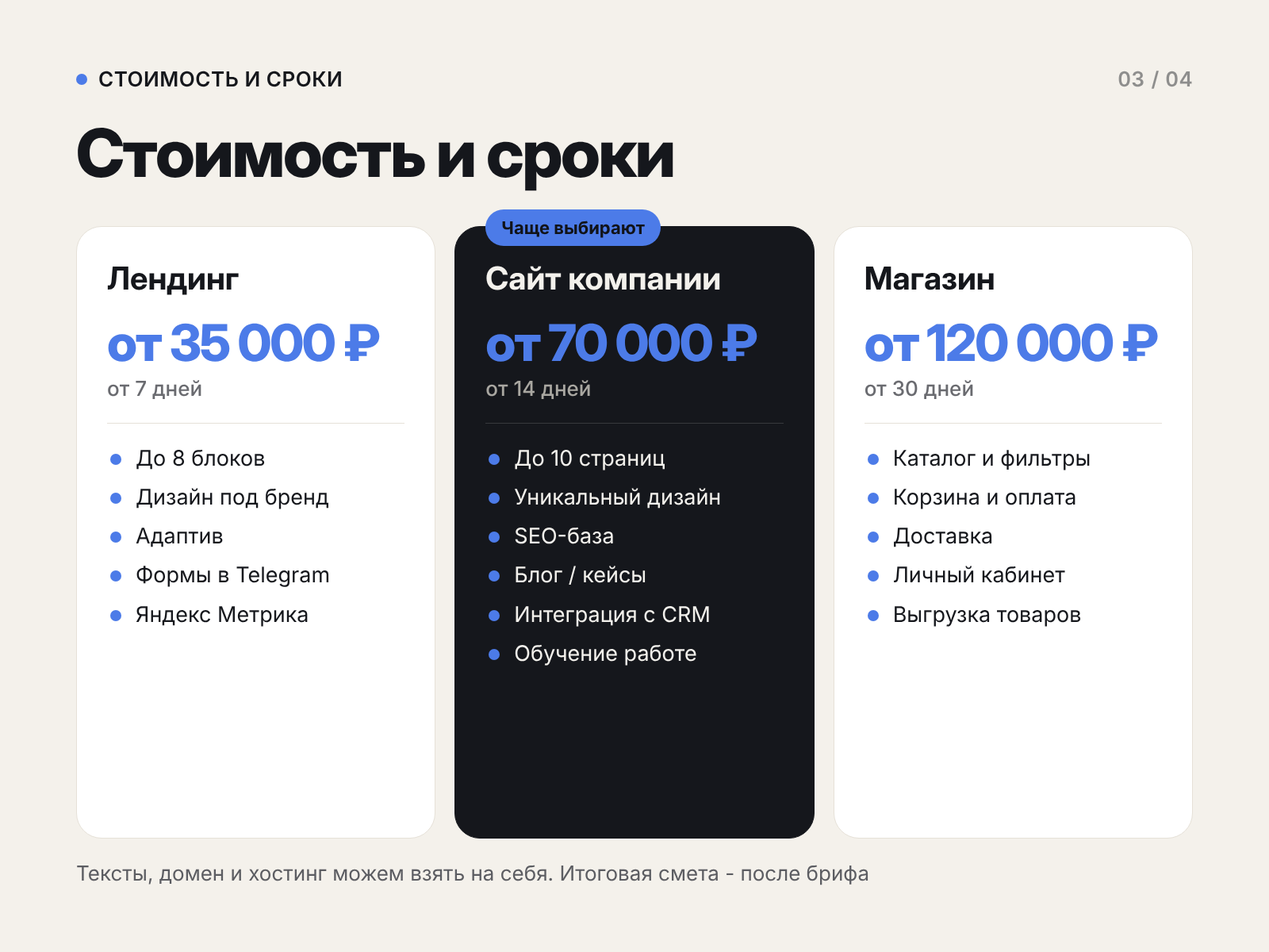
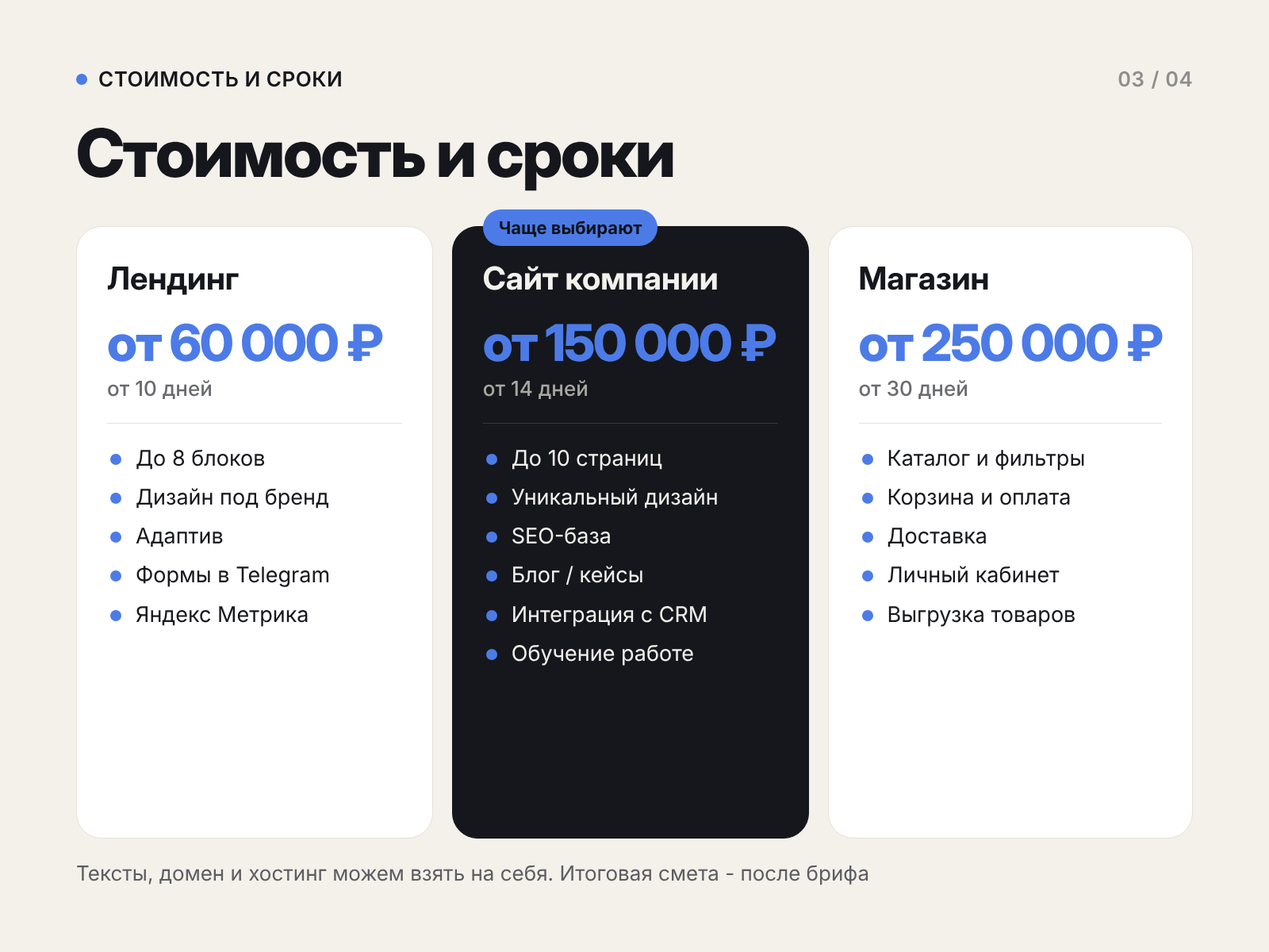
Avito ads: Moscow/SPb market prices, fix cover headline line break
Claude-Session: https://claude.ai/code/session_014B2X5Ksf3MbGYuZYbzjrCy

diff --git a/avito/src/html/03-ai-03.html b/avito/src/html/03-ai-03.html
@@ -91,6 +91,6 @@ h2 { position: relative; margin-top: 34px; font-size: 84px; font-weight: 800; le
 <div class="slide light" style="--a:#8A6BF0">
   <div class="top"><span class="kicker"><i></i>Пакеты внедрения</span><span class="pg">03 / 04</span></div>
 <h2>Пакеты внедрения</h2>
-  <div class="pkgs"><div class="pkg"><h3>Консультант</h3><div class="price">от 40 000 ₽</div><div class="term">от 5 дней</div><ul><li>1 канал</li><li>База знаний до 50 вопросов</li><li>Сбор контактов</li><li>Уведомления в Telegram</li><li>Месяц поддержки</li></ul></div><div class="pkg hl"><span class="badge">Чаще выбирают</span><h3>Менеджер</h3><div class="price">от 80 000 ₽</div><div class="term">от 10 дней</div><ul><li>До 3 каналов</li><li>Квалификация заявок</li><li>Запись в календарь</li><li>Интеграция с CRM</li><li>Передача оператору</li><li>2 месяца поддержки</li></ul></div><div class="pkg"><h3>Под задачу</h3><div class="price">от 150 000 ₽</div><div class="term">по ТЗ</div><ul><li>Сложные сценарии</li><li>Работа с документами</li><li>Внутренние ассистенты</li><li>Интеграции по API</li><li>Индивидуальный SLA</li></ul></div></div>
-  <p class="note">Оплата <span class="nw">AI-сервиса</span> по факту использования - обычно от 1 500 ₽/мес. Посчитаем заранее</p>
+  <div class="pkgs"><div class="pkg"><h3>Консультант</h3><div class="price">от 80 000 ₽</div><div class="term">от 10 дней</div><ul><li>1 канал</li><li>База знаний до 50 вопросов</li><li>Сбор контактов</li><li>Уведомления в Telegram</li><li>Месяц поддержки</li></ul></div><div class="pkg hl"><span class="badge">Чаще выбирают</span><h3>Менеджер</h3><div class="price">от 180 000 ₽</div><div class="term">от 3 недель</div><ul><li>До 3 каналов</li><li>Квалификация заявок</li><li>Запись в календарь</li><li>Интеграция с CRM</li><li>Передача оператору</li><li>2 месяца поддержки</li></ul></div><div class="pkg"><h3>Под задачу</h3><div class="price">от 350 000 ₽</div><div class="term">по ТЗ</div><ul><li>Сложные сценарии</li><li>Работа с документами</li><li>Внутренние ассистенты</li><li>Интеграции по API</li><li>Индивидуальный SLA</li></ul></div></div>
+  <p class="note">Оплата <span class="nw">AI-сервиса</span> по факту использования - обычно 5 <span class="nw">000-20</span> 000 ₽/мес. Посчитаем заранее</p>
 </div></body></html>

diff --git a/avito/src/html/01-smm-03.html b/avito/src/html/01-smm-03.html
@@ -91,6 +91,6 @@ h2 { position: relative; margin-top: 34px; font-size: 84px; font-weight: 800; le
 <div class="slide light" style="--a:#E07A4F">
   <div class="top"><span class="kicker"><i></i>Тарифы</span><span class="pg">03 / 04</span></div>
 <h2>Тарифы</h2>
-  <div class="pkgs"><div class="pkg"><h3>Старт</h3><div class="price">от 25 000 ₽</div><div class="term">в месяц</div><ul><li>1 площадка</li><li>12 публикаций</li><li>Оформление сообщества</li><li><span class="nw">Контент-план</span></li><li>Отчёт раз в месяц</li></ul></div><div class="pkg hl"><span class="badge">Чаще выбирают</span><h3>Рост</h3><div class="price">от 45 000 ₽</div><div class="term">в месяц</div><ul><li>2 площадки</li><li>20 публикаций + истории</li><li>4 клипа</li><li>Таргет VK Рекламы</li><li>Модерация</li><li>Отчёт раз в 2 недели</li></ul></div><div class="pkg"><h3>Максимум</h3><div class="price">от 75 000 ₽</div><div class="term">в месяц</div><ul><li>До 3 площадок</li><li>30 публикаций + клипы</li><li>Таргет + посевы</li><li>Модерация ежедневно</li><li>Еженедельные созвоны</li></ul></div></div>
+  <div class="pkgs"><div class="pkg"><h3>Старт</h3><div class="price">от 40 000 ₽</div><div class="term">в месяц</div><ul><li>1 площадка</li><li>12 публикаций</li><li>Оформление сообщества</li><li><span class="nw">Контент-план</span></li><li>Отчёт раз в месяц</li></ul></div><div class="pkg hl"><span class="badge">Чаще выбирают</span><h3>Рост</h3><div class="price">от 70 000 ₽</div><div class="term">в месяц</div><ul><li>2 площадки</li><li>20 публикаций + истории</li><li>4 клипа</li><li>Таргет VK Рекламы</li><li>Модерация</li><li>Отчёт раз в 2 недели</li></ul></div><div class="pkg"><h3>Максимум</h3><div class="price">от 120 000 ₽</div><div class="term">в месяц</div><ul><li>До 3 площадок</li><li>30 публикаций + клипы</li><li>Таргет + посевы</li><li>Модерация ежедневно</li><li>Еженедельные созвоны</li></ul></div></div>
   <p class="note">Рекламный бюджет оплачивается отдельно. Точная цена - после бесплатного аудита</p>
 </div></body></html>

diff --git a/avito/src/html/02-web-03.html b/avito/src/html/02-web-03.html
@@ -91,6 +91,6 @@ h2 { position: relative; margin-top: 34px; font-size: 84px; font-weight: 800; le
 <div class="slide light" style="--a:#4C7BE8">
   <div class="top"><span class="kicker"><i></i>Стоимость и сроки</span><span class="pg">03 / 04</span></div>
 <h2>Стоимость и сроки</h2>
-  <div class="pkgs"><div class="pkg"><h3>Лендинг</h3><div class="price">от 35 000 ₽</div><div class="term">от 7 дней</div><ul><li>До 8 блоков</li><li>Дизайн под бренд</li><li>Адаптив</li><li>Формы в Telegram</li><li>Яндекс Метрика</li></ul></div><div class="pkg hl"><span class="badge">Чаще выбирают</span><h3>Сайт компании</h3><div class="price">от 70 000 ₽</div><div class="term">от 14 дней</div><ul><li>До 10 страниц</li><li>Уникальный дизайн</li><li><span class="nw">SEO-база</span></li><li>Блог / кейсы</li><li>Интеграция с CRM</li><li>Обучение работе</li></ul></div><div class="pkg"><h3>Магазин</h3><div class="price">от 120 000 ₽</div><div class="term">от 30 дней</div><ul><li>Каталог и фильтры</li><li>Корзина и оплата</li><li>Доставка</li><li>Личный кабинет</li><li>Выгрузка товаров</li></ul></div></div>
+  <div class="pkgs"><div class="pkg"><h3>Лендинг</h3><div class="price">от 60 000 ₽</div><div class="term">от 10 дней</div><ul><li>До 8 блоков</li><li>Дизайн под бренд</li><li>Адаптив</li><li>Формы в Telegram</li><li>Яндекс Метрика</li></ul></div><div class="pkg hl"><span class="badge">Чаще выбирают</span><h3>Сайт компании</h3><div class="price">от 150 000 ₽</div><div class="term">от 14 дней</div><ul><li>До 10 страниц</li><li>Уникальный дизайн</li><li><span class="nw">SEO-база</span></li><li>Блог / кейсы</li><li>Интеграция с CRM</li><li>Обучение работе</li></ul></div><div class="pkg"><h3>Магазин</h3><div class="price">от 250 000 ₽</div><div class="term">от 30 дней</div><ul><li>Каталог и фильтры</li><li>Корзина и оплата</li><li>Доставка</li><li>Личный кабинет</li><li>Выгрузка товаров</li></ul></div></div>
   <p class="note">Тексты, домен и хостинг можем взять на себя. Итоговая смета - после брифа</p>
 </div></body></html>

diff --git a/avito/src/html/00-universal-01.html b/avito/src/html/00-universal-01.html
@@ -91,8 +91,8 @@ h2 { position: relative; margin-top: 34px; font-size: 84px; font-weight: 800; le
 <div class="slide cover" style="--a:#E07A4F">
   <div class="glow"></div><div class="grid-bg"></div>
   <div class="top"><span class="kicker"><i></i><span class="nw">Digital-команда</span> для бизнеса</span><span class="pg">01 / 04</span></div>
-  <h1>Соцсети, сайт и&nbsp;<em><span class="nw">AI-агент</span></em> - под ключ</h1>
+  <h1>Соцсети, сайт и<br><em><span class="nw">AI-агент</span></em> - под ключ</h1>
   <p class="sub">Одна команда закрывает весь путь клиента: от первого поста до заявки в вашем телефоне</p>
-  <div class="chips"><div class="chip" style="--c:#E07A4F"><span>SMM</span><b>от 25 000 ₽/мес</b></div><div class="chip" style="--c:#4C7BE8"><span>Сайты</span><b>от 35 000 ₽</b></div><div class="chip" style="--c:#8A6BF0"><span><span class="nw">AI-агенты</span></span><b>от 40 000 ₽</b></div></div>
+  <div class="chips"><div class="chip" style="--c:#E07A4F"><span>SMM</span><b>от 40 000 ₽/мес</b></div><div class="chip" style="--c:#4C7BE8"><span>Сайты</span><b>от 60 000 ₽</b></div><div class="chip" style="--c:#8A6BF0"><span><span class="nw">AI-агенты</span></span><b>от 80 000 ₽</b></div></div>
   <div class="cta"><span class="arrow">→</span>Бесплатный разбор вашего проекта - напишите в сообщения</div>
 </div></body></html>

diff --git a/avito/src/html/03-ai-01.html b/avito/src/html/03-ai-01.html
@@ -93,6 +93,6 @@ h2 { position: relative; margin-top: 34px; font-size: 84px; font-weight: 800; le
   <div class="top"><span class="kicker"><i></i><span class="nw">AI-агенты</span> для бизнеса</span><span class="pg">01 / 04</span></div>
   <h1><span class="nw">AI-агент</span>, который <em>отвечает клиентам 24/7</em> и&nbsp;не&nbsp;теряет заявки</h1>
   <p class="sub">Консультирует, уточняет запрос и записывает клиентов в Telegram, VK, на сайте и в CRM</p>
-  <div class="chips"><div class="chip" style="--c:#8A6BF0"><span>Внедрение</span><b>от 40 000 ₽</b></div><div class="chip" style="--c:#8A6BF0"><span>Запуск</span><b>от 5 дней</b></div><div class="chip" style="--c:#8A6BF0"><span>Ответ клиенту</span><b>за секунды</b></div></div>
+  <div class="chips"><div class="chip" style="--c:#8A6BF0"><span>Внедрение</span><b>от 80 000 ₽</b></div><div class="chip" style="--c:#8A6BF0"><span>Запуск</span><b>от 10 дней</b></div><div class="chip" style="--c:#8A6BF0"><span>Ответ клиенту</span><b>за секунды</b></div></div>
   <div class="cta"><span class="arrow">→</span>Бесплатно покажем демо на примере вашего бизнеса - напишите</div>
 </div></body></html>

diff --git a/avito/src/html/01-smm-01.html b/avito/src/html/01-smm-01.html
@@ -93,6 +93,6 @@ h2 { position: relative; margin-top: 34px; font-size: 84px; font-weight: 800; le
   <div class="top"><span class="kicker"><i></i>SMM под ключ</span><span class="pg">01 / 04</span></div>
   <h1>Соцсети, которые <em>приводят клиентов</em>, а&nbsp;не&nbsp;просто лайки</h1>
   <p class="sub">Ведём ВКонтакте и Telegram: стратегия, контент, дизайн, реклама и отчёты</p>
-  <div class="chips"><div class="chip" style="--c:#E07A4F"><span>Старт</span><b>от 25 000 ₽/мес</b></div><div class="chip" style="--c:#E07A4F"><span>Первые посты</span><b>через 7 дней</b></div><div class="chip" style="--c:#E07A4F"><span>Отчёт</span><b>каждый месяц</b></div></div>
+  <div class="chips"><div class="chip" style="--c:#E07A4F"><span>Старт</span><b>от 40 000 ₽/мес</b></div><div class="chip" style="--c:#E07A4F"><span>Первые посты</span><b>через 7 дней</b></div><div class="chip" style="--c:#E07A4F"><span>Отчёт</span><b>каждый месяц</b></div></div>
   <div class="cta"><span class="arrow">→</span>Бесплатный аудит вашего сообщества - напишите в сообщения</div>
 </div></body></html>

diff --git a/avito/src/html/02-web-01.html b/avito/src/html/02-web-01.html
@@ -93,6 +93,6 @@ h2 { position: relative; margin-top: 34px; font-size: 84px; font-weight: 800; le
   <div class="top"><span class="kicker"><i></i>Разработка сайтов</span><span class="pg">01 / 04</span></div>
   <h1>Сайт, который <em>превращает посетителей</em> в&nbsp;заявки</h1>
   <p class="sub">Лендинги, сайты компаний и <span class="nw">интернет-магазины</span> с дизайном под ваш бизнес</p>
-  <div class="chips"><div class="chip" style="--c:#4C7BE8"><span>Лендинг</span><b>от 35 000 ₽</b></div><div class="chip" style="--c:#4C7BE8"><span>Срок</span><b>от 7 дней</b></div><div class="chip" style="--c:#4C7BE8"><span>Адаптив</span><b>телефон и ПК</b></div></div>
+  <div class="chips"><div class="chip" style="--c:#4C7BE8"><span>Лендинг</span><b>от 60 000 ₽</b></div><div class="chip" style="--c:#4C7BE8"><span>Срок</span><b>от 10 дней</b></div><div class="chip" style="--c:#4C7BE8"><span>Адаптив</span><b>телефон и ПК</b></div></div>
   <div class="cta"><span class="arrow">→</span>Бесплатная консультация и оценка проекта - напишите в сообщения</div>
 </div></body></html>

diff --git a/avito/src/build.py b/avito/src/build.py
@@ -27,12 +27,12 @@ ADS = {
             {
                 "type": "cover",
                 "kicker": "Digital-команда для бизнеса",
-                "title": "Соцсети, сайт и&nbsp;<em>AI-агент</em> - под ключ",
+                "title": "Соцсети, сайт и<br><em>AI-агент</em> - под ключ",
                 "sub": "Одна команда закрывает весь путь клиента: от первого поста до заявки в вашем телефоне",
                 "chips": [
-                    ("SMM", "от 25 000 ₽/мес", ACC["smm"]),
-                    ("Сайты", "от 35 000 ₽", ACC["web"]),
-                    ("AI-агенты", "от 40 000 ₽", ACC["ai"]),
+                    ("SMM", "от 40 000 ₽/мес", ACC["smm"]),
+                    ("Сайты", "от 60 000 ₽", ACC["web"]),
+                    ("AI-агенты", "от 80 000 ₽", ACC["ai"]),
                 ],
                 "cta": "Бесплатный разбор вашего проекта - напишите в сообщения",
             },
@@ -84,7 +84,7 @@ ADS = {
                 "title": "Соцсети, которые <em>приводят клиентов</em>, а&nbsp;не&nbsp;просто лайки",
                 "sub": "Ведём ВКонтакте и Telegram: стратегия, контент, дизайн, реклама и отчёты",
                 "chips": [
-                    ("Старт", "от 25 000 ₽/мес", None),
+                    ("Старт", "от 40 000 ₽/мес", None),
                     ("Первые посты", "через 7 дней", None),
                     ("Отчёт", "каждый месяц", None),
                 ],
@@ -109,9 +109,9 @@ ADS = {
                 "type": "packages",
                 "title": "Тарифы",
                 "packages": [
-                    ("Старт", "25 000 ₽", "в месяц", ["1 площадка", "12 публикаций", "Оформление сообщества", "Контент-план", "Отчёт раз в месяц"], False),
-                    ("Рост", "45 000 ₽", "в месяц", ["2 площадки", "20 публикаций + истории", "4 клипа", "Таргет VK Рекламы", "Модерация", "Отчёт раз в 2 недели"], True),
-                    ("Максимум", "75 000 ₽", "в месяц", ["До 3 площадок", "30 публикаций + клипы", "Таргет + посевы", "Модерация ежедневно", "Еженедельные созвоны"], False),
+                    ("Старт", "40 000 ₽", "в месяц", ["1 площадка", "12 публикаций", "Оформление сообщества", "Контент-план", "Отчёт раз в месяц"], False),
+                    ("Рост", "70 000 ₽", "в месяц", ["2 площадки", "20 публикаций + истории", "4 клипа", "Таргет VK Рекламы", "Модерация", "Отчёт раз в 2 недели"], True),
+                    ("Максимум", "120 000 ₽", "в месяц", ["До 3 площадок", "30 публикаций + клипы", "Таргет + посевы", "Модерация ежедневно", "Еженедельные созвоны"], False),
                 ],
                 "note": "Рекламный бюджет оплачивается отдельно. Точная цена - после бесплатного аудита",
             },
@@ -139,8 +139,8 @@ ADS = {
                 "title": "Сайт, который <em>превращает посетителей</em> в&nbsp;заявки",
                 "sub": "Лендинги, сайты компаний и интернет-магазины с дизайном под ваш бизнес",
                 "chips": [
-                    ("Лендинг", "от 35 000 ₽", None),
-                    ("Срок", "от 7 дней", None),
+                    ("Лендинг", "от 60 000 ₽", None),
+                    ("Срок", "от 10 дней", None),
                     ("Адаптив", "телефон и ПК", None),
                 ],
                 "cta": "Бесплатная консультация и оценка проекта - напишите в сообщения",
@@ -164,9 +164,9 @@ ADS = {
                 "type": "packages",
                 "title": "Стоимость и сроки",
                 "packages": [
-                    ("Лендинг", "35 000 ₽", "от 7 дней", ["До 8 блоков", "Дизайн под бренд", "Адаптив", "Формы в Telegram", "Яндекс Метрика"], False),
-                    ("Сайт компании", "70 000 ₽", "от 14 дней", ["До 10 страниц", "Уникальный дизайн", "SEO-база", "Блог / кейсы", "Интеграция с CRM", "Обучение работе"], True),
-                    ("Магазин", "120 000 ₽", "от 30 дней", ["Каталог и фильтры", "Корзина и оплата", "Доставка", "Личный кабинет", "Выгрузка товаров"], False),
+                    ("Лендинг", "60 000 ₽", "от 10 дней", ["До 8 блоков", "Дизайн под бренд", "Адаптив", "Формы в Telegram", "Яндекс Метрика"], False),
+                    ("Сайт компании", "150 000 ₽", "от 14 дней", ["До 10 страниц", "Уникальный дизайн", "SEO-база", "Блог / кейсы", "Интеграция с CRM", "Обучение работе"], True),
+                    ("Магазин", "250 000 ₽", "от 30 дней", ["Каталог и фильтры", "Корзина и оплата", "Доставка", "Личный кабинет", "Выгрузка товаров"], False),
                 ],
                 "note": "Тексты, домен и хостинг можем взять на себя. Итоговая смета - после брифа",
             },
@@ -194,8 +194,8 @@ ADS = {
                 "title": "AI-агент, который <em>отвечает клиентам 24/7</em> и&nbsp;не&nbsp;теряет заявки",
                 "sub": "Консультирует, уточняет запрос и записывает клиентов в Telegram, VK, на сайте и в CRM",
                 "chips": [
-                    ("Внедрение", "от 40 000 ₽", None),
-                    ("Запуск", "от 5 дней", None),
+                    ("Внедрение", "от 80 000 ₽", None),
+                    ("Запуск", "от 10 дней", None),
                     ("Ответ клиенту", "за секунды", None),
                 ],
                 "cta": "Бесплатно покажем демо на примере вашего бизнеса - напишите",
@@ -219,11 +219,11 @@ ADS = {
                 "type": "packages",
                 "title": "Пакеты внедрения",
                 "packages": [
-                    ("Консультант", "40 000 ₽", "от 5 дней", ["1 канал", "База знаний до 50 вопросов", "Сбор контактов", "Уведомления в Telegram", "Месяц поддержки"], False),
-                    ("Менеджер", "80 000 ₽", "от 10 дней", ["До 3 каналов", "Квалификация заявок", "Запись в календарь", "Интеграция с CRM", "Передача оператору", "2 месяца поддержки"], True),
-                    ("Под задачу", "от 150 000 ₽", "по ТЗ", ["Сложные сценарии", "Работа с документами", "Внутренние ассистенты", "Интеграции по API", "Индивидуальный SLA"], False),
+                    ("Консультант", "80 000 ₽", "от 10 дней", ["1 канал", "База знаний до 50 вопросов", "Сбор контактов", "Уведомления в Telegram", "Месяц поддержки"], False),
+                    ("Менеджер", "180 000 ₽", "от 3 недель", ["До 3 каналов", "Квалификация заявок", "Запись в календарь", "Интеграция с CRM", "Передача оператору", "2 месяца поддержки"], True),
+                    ("Под задачу", "от 350 000 ₽", "по ТЗ", ["Сложные сценарии", "Работа с документами", "Внутренние ассистенты", "Интеграции по API", "Индивидуальный SLA"], False),
                 ],
-                "note": "Оплата AI-сервиса по факту использования - обычно от 1 500 ₽/мес. Посчитаем заранее",
+                "note": "Оплата AI-сервиса по факту использования - обычно 5 000-20 000 ₽/мес. Посчитаем заранее",
             },
             {
                 "type": "steps",
